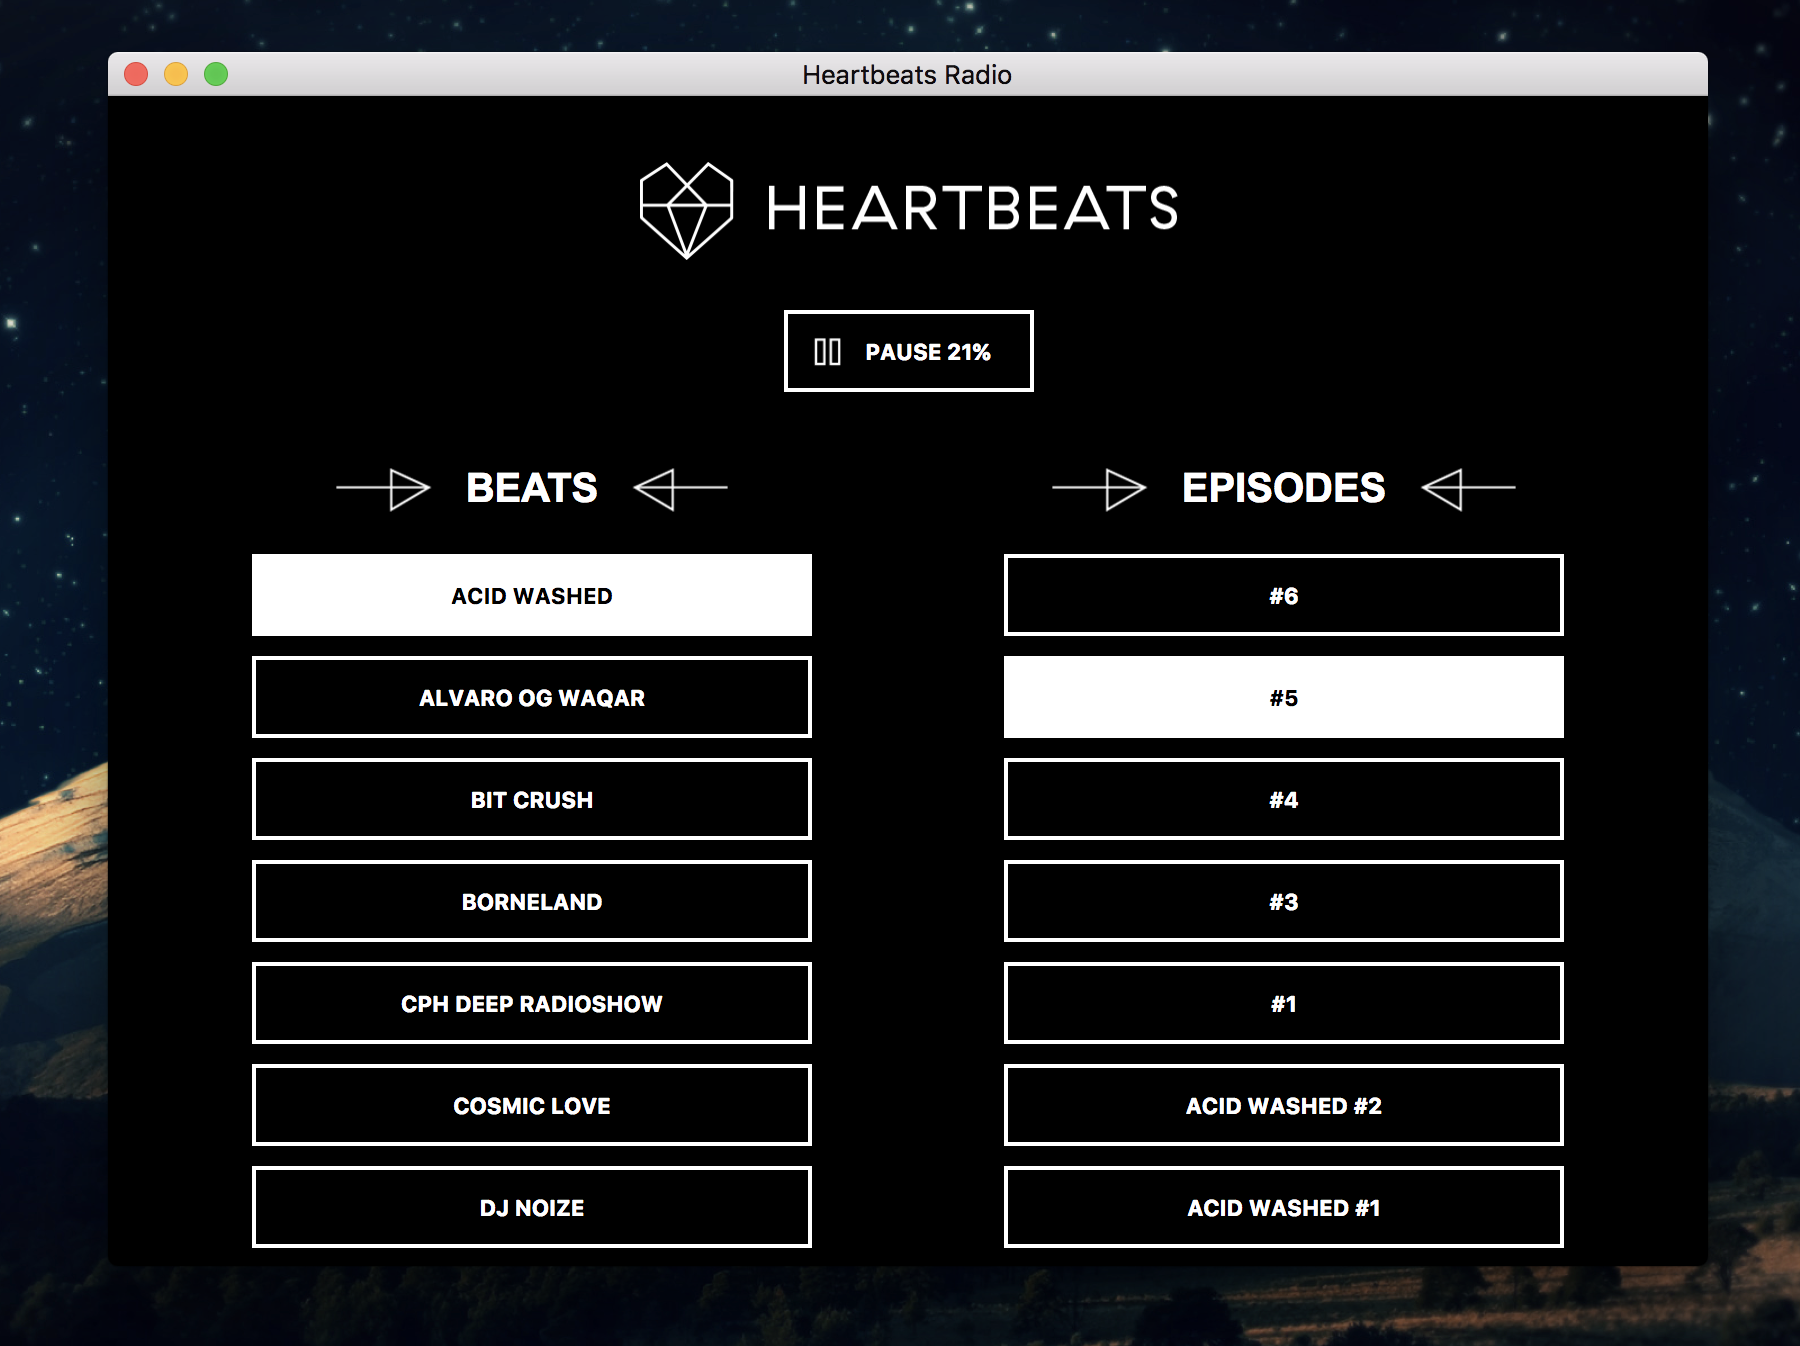
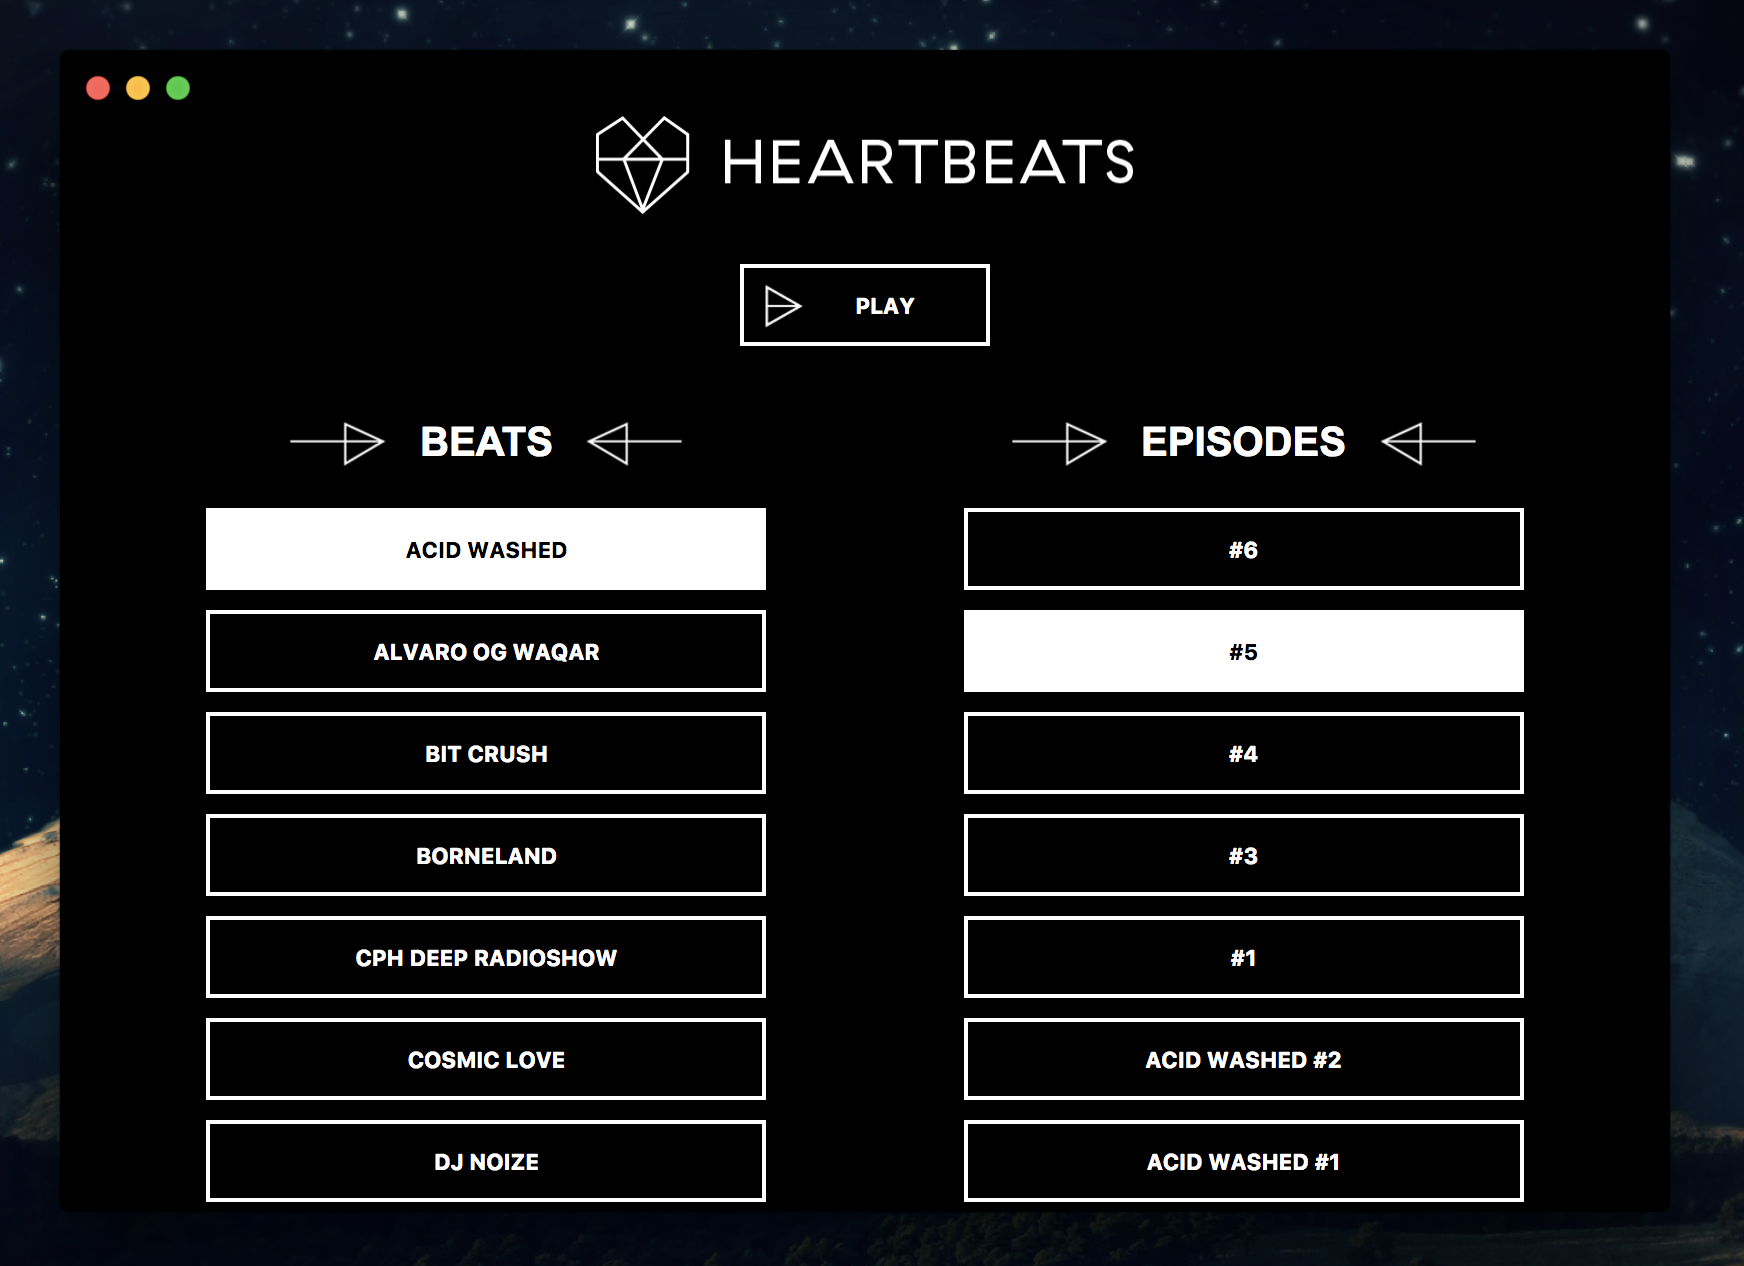
Hides titlesbar

diff --git a/app/main.js b/app/main.js
@@ -9,7 +9,7 @@ let mainWindow
 
 function createWindow () {
   // Create the browser window.
-  mainWindow = new BrowserWindow({width: 800, height: 600, backgroundColor: '#000'})
+  mainWindow = new BrowserWindow({width: 800, height: 600, backgroundColor: '#000', titleBarStyle: 'hiddenInset'})
 
   // and load the index.html of the app.
   mainWindow.loadURL(url.format({
